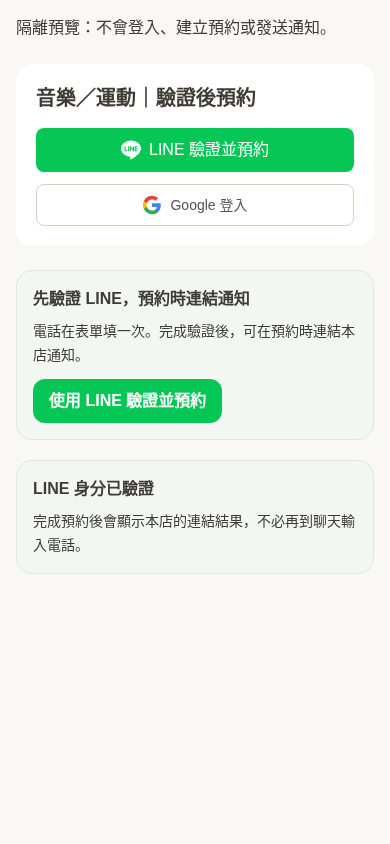
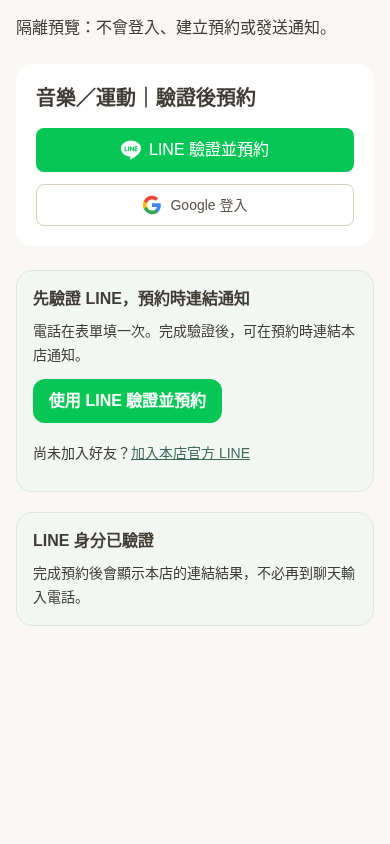
Expose the store friend link beside identity-first booking entry

Changed region(s): [[0.0615, 0.5237, 0.6462, 0.7393], [0.6769, 0.5853, 0.9231, 0.7085]]

diff --git a/src/components/booking-line-entry.tsx b/src/components/booking-line-entry.tsx
@@ -1,10 +1,14 @@
-export function BookingLineEntry({ href, verified = false }: { href?: string; verified?: boolean }) {
+import { normalizeLineOfficialUrl } from "@/lib/line-official-url";
+
+export function BookingLineEntry({ href, verified = false, friendHref }: { href?: string; verified?: boolean; friendHref?: string }) {
   if (!href && !verified) return null;
+  const friendUrl = normalizeLineOfficialUrl(friendHref);
   return <section aria-label="LINE 身分驗證" className="mb-5 rounded-2xl border border-primary-100 bg-primary-50 p-4 text-earth-800 sm:p-5">
     <p className="text-base font-semibold">{verified ? "LINE 身分已驗證" : "先驗證 LINE，預約時連結通知"}</p>
     <p className="mt-2 text-sm leading-6">{verified
       ? "完成預約後會顯示本店的連結結果，不必再到聊天輸入電話。"
       : "電話在表單填一次。完成驗證後，可在預約時連結本店通知。"}</p>
     {!verified && href && <a href={href} className="mt-3 inline-flex min-h-11 items-center justify-center rounded-xl bg-[#06C755] px-4 py-2 text-base font-semibold text-white">使用 LINE 驗證並預約</a>}
+    {!verified && friendUrl && <p className="mt-2 text-sm leading-6">尚未加入好友？<a href={friendUrl} target="_blank" rel="noopener noreferrer" className="inline-flex min-h-11 items-center text-primary-700 underline">加入本店官方 LINE</a></p>}
   </section>;
 }

diff --git a/src/components/beauty/public-booking-form.tsx b/src/components/beauty/public-booking-form.tsx
@@ -178,7 +178,7 @@ export function BeautyPublicBookingForm({ catalog, slug, entry, publicInfo, read
       : <button type="button" disabled={pending} onClick={() => { if (lock.current) return; requestKey.current = crypto.randomUUID(); setPeople([blank(sequence.current++)]); setTime(""); setSlots([]); setQueried(false); setSeparateContact(false); setContactName(""); setContactPhone(""); setStage("service"); setErrors({}); setError(""); }}>再預約一筆</button>}
   </section>;
   return <form noValidate className={styles.form} onSubmit={event => { event.preventDefault(); if (stage === "service") void query(); else void submit(); }}>
-    {stage === "service" && <BookingLineEntry href={publicInfo?.lineEntryHref} verified={publicInfo?.lineIdentityVerified}/>}
+    {stage === "service" && <BookingLineEntry href={publicInfo?.lineEntryHref} verified={publicInfo?.lineIdentityVerified} friendHref={contactUrl ?? undefined}/>}
     <ol className={styles.steps} aria-label="預約步驟"><li aria-current={stage === "service" ? "step" : undefined}>1 選擇服務與時段</li><li aria-current={stage === "contact" ? "step" : undefined}>2 聯絡資料與確認</li></ol>
     <fieldset disabled={pending || uncertain}>
       {stage === "service" ? <>

diff --git a/src/app/pricing/experience/zhubei/book/zhubei-trial-booking-form.tsx b/src/app/pricing/experience/zhubei/book/zhubei-trial-booking-form.tsx
@@ -263,7 +263,7 @@ export function ZhubeiTrialBookingForm({
 
   return (
     <section className="mt-6 rounded-2xl bg-white p-5 shadow-sm">
-      {!entry && <BookingLineEntry href={resolvePublicTrialLiffConfig(storeSlug) ? `https://liff.line.me/${resolvePublicTrialLiffConfig(storeSlug)!.liffId}` : undefined}/>}
+      {!entry && <BookingLineEntry href={resolvePublicTrialLiffConfig(storeSlug) ? `https://liff.line.me/${resolvePublicTrialLiffConfig(storeSlug)!.liffId}` : undefined} friendHref={contactUrl}/>}
       <p className="text-sm font-medium text-earth-800">1. 選擇日期</p>
       <div className="mt-3 rounded-2xl border border-earth-100 p-3">
         <div className="flex items-center justify-between">

diff --git a/docs/verification/shared-verified-booking-entry-20261026.md b/docs/verification/shared-verified-booking-entry-20261026.md
@@ -6,6 +6,7 @@
 
 - `/booking-line?store=<slug>` 僅讀取可營運、未封存店家的設定，轉到該店 canonical LIFF；不接受外部 redirect、不設定身分 cookie、不寫會員。未設定為404，不使用中央／其他店備援。
 - 蒸足三店沿用現有 public-trial LIFF。公開表單新增驗證入口，既有單次entry、體驗規則與成功回條保留；歡迎訊息改用同一驗證入口，讀取店家資料失敗保留原手動恢復方式。
+- 尚未加入好友者可從表單驗證入口旁先加入本店官方LINE。加好友與身分驗證分開，不使用其他店的好友連結。
 - 美業 `/beauty-trial/[slug]` 依實際設定提供入口；後端核對 entry 後第一步顯示已驗證。`/s/<slug>/liff/public-trial` 與 `/api/liff/public-trial-entry` 驗證設定中的Login audience、實際Beauty店ID及本店Messaging可達性，再發行原本的單次不透明entry。
 - 音樂／運動沿用 COURSE 的 token exchange、已驗證會員、首次姓名／電話登記與門市核對。驗證成功開啟本店課表；首次登記也返回同店預約入口。已設定店家的登入與註冊入口共用 canonical LIFF，不另建課程公開預約權益。
 - 共用OA如共用同一LIFF，網址保留 `bookingStore`；只能在同 sharedAccountKey、同實體LIFF的明確設定中切門市。不同LIFF／不同OA／未知店家拒絕，不依cookie或第一筆店家猜測。
